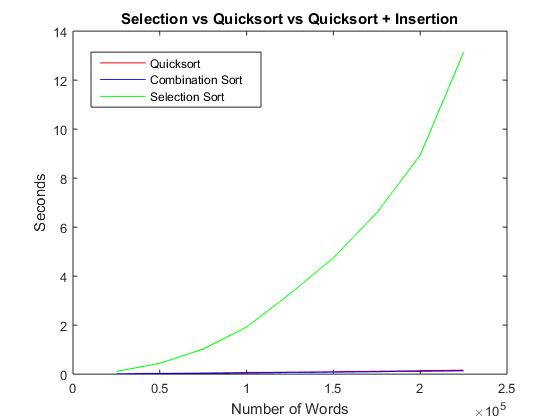
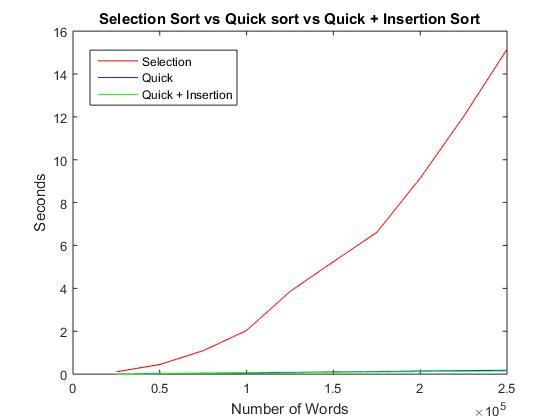
fixed graph

diff --git a/graph/graphfiles/script.m b/graph/graphfiles/script.m
@@ -1,4 +1,9 @@
-x = [25000,50000,75000,100000,125000,150000,175000,200000,225000,0];
-quicky=[0.014035,0.028864,0.044903,0.061915,0.079585,0.101621,0.117891,0.141579,0.158426,0];
+x = [25000,50000,75000,100000,125000,150000,175000,200000,225000,250000];
+quicky=[0.014035,0.028864,0.044903,0.061915,0.079585,0.101621,0.117891,0.141579,0.158426,0.180286];
 quickintroy=[0.009957,0.024318,0.035123,0.049459,0.064614,0.080855,0.104398,0.115522,0.129864,0.149968];
 selectiony=[0.108327,0.447456,1.09285,2.03542,3.85115,5.2438,6.61026,9.13911,12.0144,15.1512];
+plot(x,selectiony,'r');
+hold on
+plot(x,quicky,'b');
+hold on
+plot(x,quickintroy,'g');
